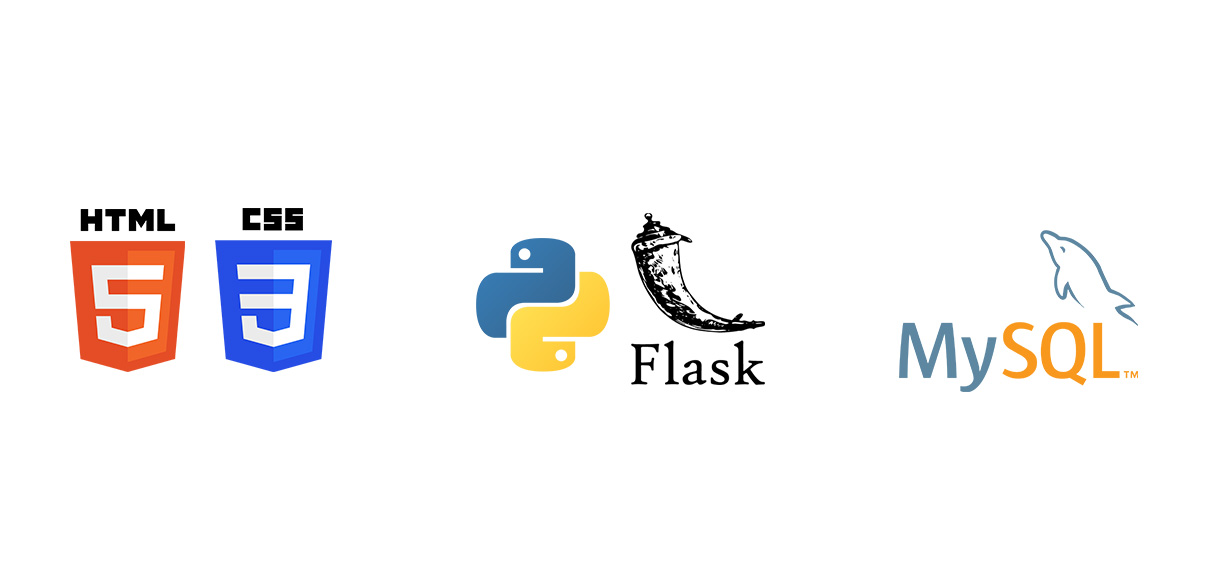
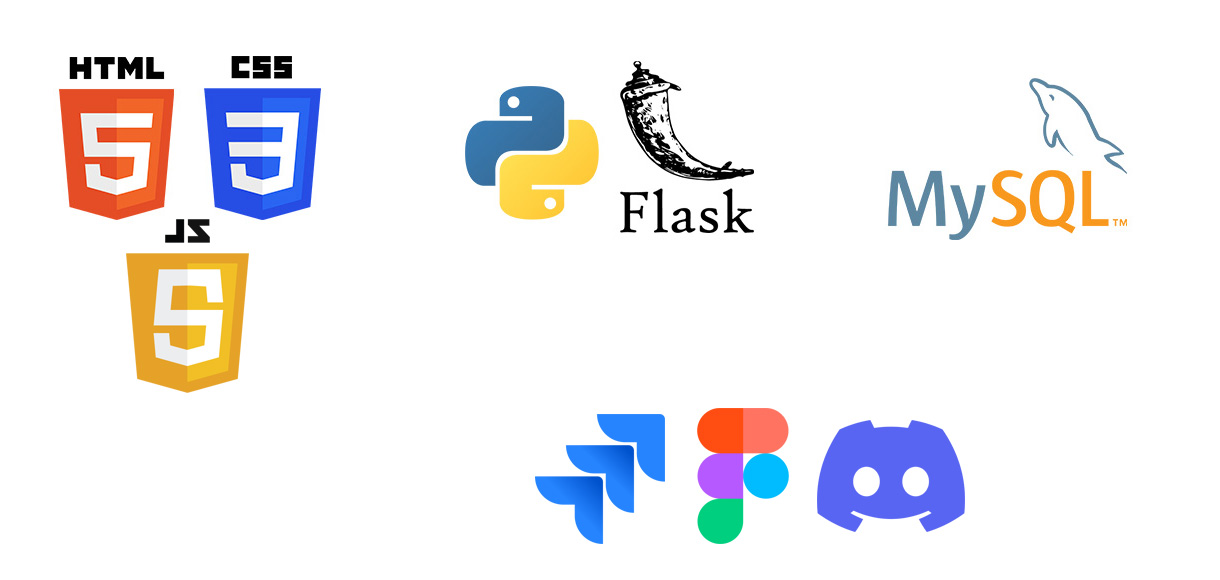
gifs de mvp das sprints, atualização nas instruções do sistema e nas tecnologias do projeto

diff --git a/README.md b/README.md
@@ -45,6 +45,8 @@ app.config['MYSQL_CURSORCLASS'] = 'DictCursor'
 ```powershell
 cd src
 python app.py
+# digite no navegador a url que aparecer no terminal
+# padrão: http://127.0.0.1:5000
 ```
 
 <span id="entregas"></span>
@@ -144,6 +146,9 @@ O projeto está sendo realizado utilizando-se da metodologia ágil SCRUM, separa
 |  06  | Gerente de Agência pode realizar alteração de dados dos seus clientes sem requisição (correção) |
 |  07  | Comprovante de operações (correção) |
 |  08  | Extrato de movimentação da conta (correção) |
+<p align="center">
+    <img src="docs/entregas/sprint-3/mvp-sprint3.gif">
+</p>
 
 ### Sprint 4 
 | Item | Funcionalidade             |
@@ -153,6 +158,9 @@ O projeto está sendo realizado utilizando-se da metodologia ágil SCRUM, separa
 |  03  | Cheque Especial |
 |  05  | Truncamento de valores |
 |  06  | Responsividade do sistema |
+<p align="center">
+    <img src="docs/entregas/sprint-4/mvp-sprint4.gif">
+</p>
 
 <span id="tecnologias"></span>
 
